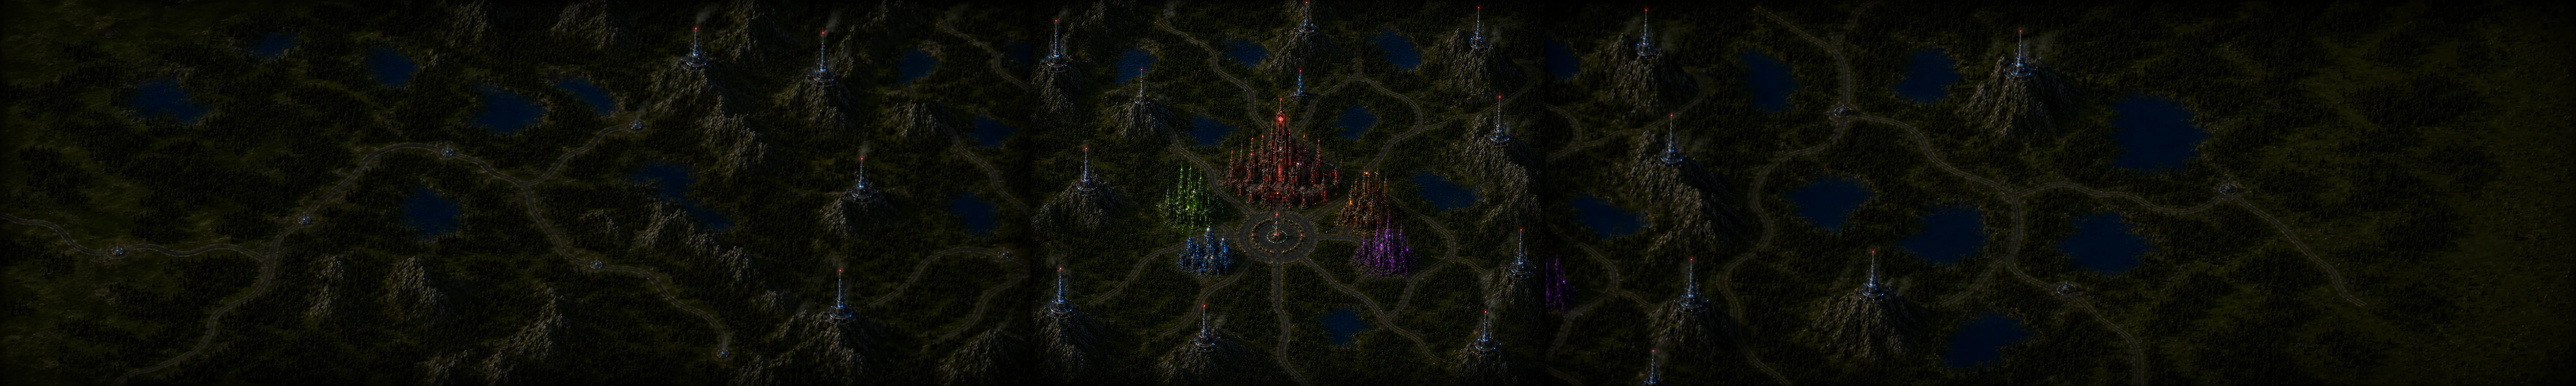
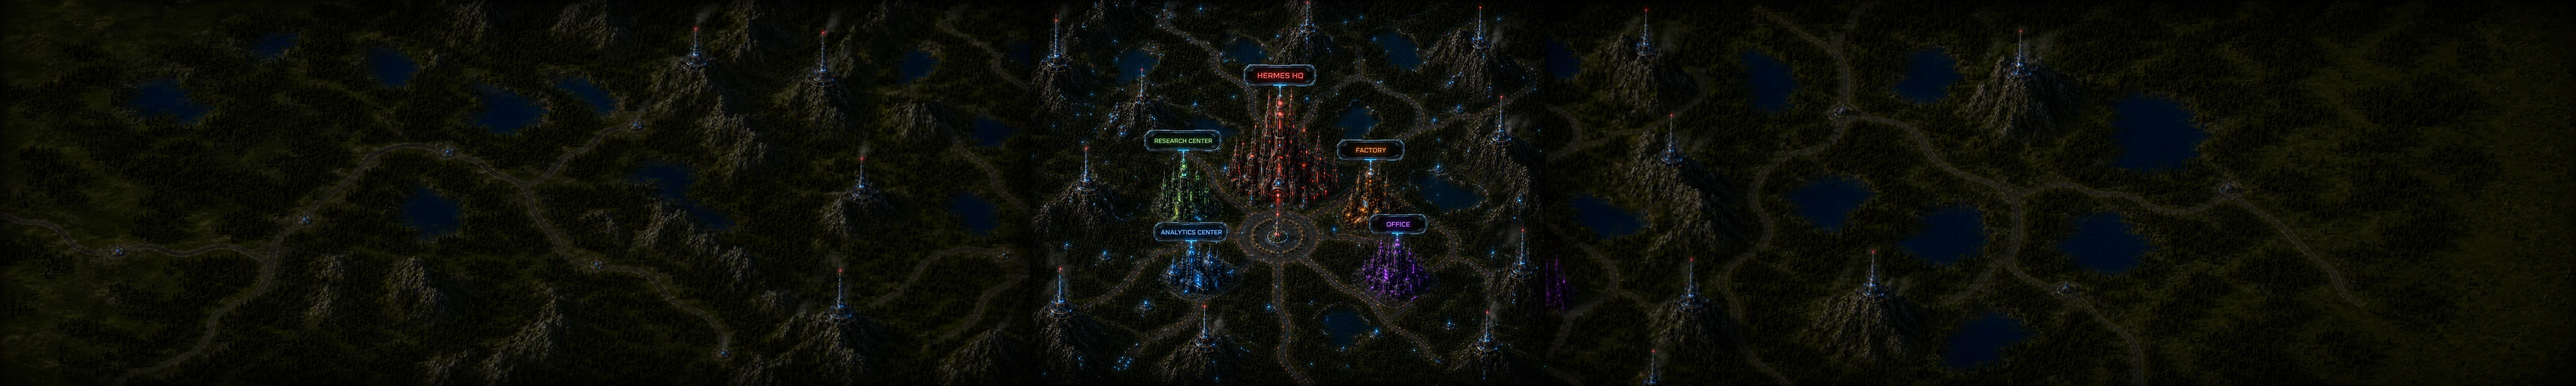
Byt till nya kartbilden med inbakade sci-fi-namnbubblor
- Mittsegmentet i panoraman utbytt mot anvandarens nya bild dar
  namnbubblorna ar inbakade i varje byggnads farg (HERMES HQ rod,
  RESEARCH CENTER gron, FACTORY orange, ANALYTICS CENTER bla,
  OFFICE lila) och hela staden/naturen ar i high-tech-stil
- Vildmarks-sidorna behallna ororda (ingen tom yta pa breda skarmar)
- Canvas-ritade HUD-etiketter avstangda (LABELS tom) - bubblorna
  finns nu i sjalva bilden
- Lampor omdetekterade (124 st) och 21 falska traffar pa bubblornas
  fargade text bortfiltrerade (etiketter ska inte gloda) -> 103 st

Claude-Session: https://claude.ai/code/session_015kz6un1MtHdJ6ZSN9t2GV3

Changed region(s): [[0.4058, 0.0, 0.5931, 0.9724], [0.4058, 0.1215, 0.437, 0.1519]]

diff --git a/js/lamps.js b/js/lamps.js
@@ -1,3 +1,4 @@
 // Positioner för befintliga lampor/facklor i kartan (autogenererat).
 // Format: [x, y, r, g, b] i bildkoordinater (panorama 7240x1086).
-window.LAMPS = [[3795,568,255,177,79],[3835,485,255,215,160],[3847,489,245,195,150],[3604,334,255,148,125],[3591,543,255,199,177],[3530,686,229,197,153],[3753,486,255,187,170],[3811,511,218,163,109],[3658,661,255,208,192],[3594,332,255,173,159],[3778,587,241,216,188],[3588,600,252,168,151],[3820,575,229,188,149],[3517,434,249,186,168],[3600,278,255,190,179],[3596,482,255,198,187],[3498,706,244,207,185],[3520,660,248,203,186],[3665,382,250,175,161],[2967,58,255,156,148],[3655,672,226,205,169],[3672,7,255,191,185],[3520,390,254,167,160],[3707,450,249,155,143],[3647,462,246,196,181],[3520,672,223,200,162],[3607,706,217,185,141],[4214,272,255,178,173],[3706,395,255,189,184],[3581,658,247,199,186],[3598,314,245,165,151],[3574,376,233,174,148],[3548,383,255,181,177],[3568,497,246,161,149],[3462,428,255,185,183],[4155,21,255,179,178],[3052,417,255,196,195],[4274,646,255,169,168],[3664,560,235,149,130],[3754,509,241,188,176],[3639,693,210,195,152],[3539,695,221,196,166],[3799,523,208,156,114]];
+// Bubblornas textzoner ar exkluderade (etiketter ska inte gloda).
+window.LAMPS = [[3870,593,254,196,102],[3829,589,255,190,105],[3851,509,255,207,123],[3789,603,255,209,131],[3892,545,255,209,154],[3851,533,237,180,108],[3815,531,255,218,166],[3817,511,243,200,142],[3658,649,255,226,181],[3815,620,244,187,133],[3799,572,239,178,123],[3842,626,239,193,138],[3840,594,226,164,98],[3839,612,247,215,174],[3602,289,255,154,125],[3591,547,255,196,168],[3540,627,245,217,179],[3711,447,255,186,159],[3592,560,255,131,104],[3531,687,248,212,179],[3594,462,254,149,123],[3602,319,255,155,132],[3658,673,247,209,178],[3573,706,249,224,196],[3625,950,249,212,184],[3628,279,255,198,177],[3672,426,255,202,181],[3517,438,255,185,164],[3550,529,249,219,192],[3560,704,244,222,190],[3522,661,253,211,189],[3150,819,249,224,198],[2967,57,255,181,162],[3597,347,255,182,163],[3567,398,244,151,121],[3842,515,228,176,130],[3591,536,255,168,149],[4080,734,248,216,190],[3596,337,255,179,161],[3702,497,255,205,187],[3467,505,249,173,149],[3726,537,255,186,168],[3306,583,222,219,168],[3782,587,225,171,123],[3707,673,251,214,192],[3597,360,255,185,168],[3559,618,236,217,181],[3593,287,255,150,134],[4183,306,245,220,194],[3528,356,255,207,191],[3629,701,238,216,183],[3664,366,255,197,182],[3594,472,255,205,191],[3798,552,244,220,196],[3560,352,254,199,186],[3628,397,253,153,139],[3662,527,255,163,151],[3850,571,233,200,166],[3588,641,240,219,192],[3566,274,255,207,196],[3894,520,216,167,117],[4180,878,255,203,192],[3596,400,245,155,135],[3052,417,255,200,190],[3587,659,255,206,196],[3550,700,235,210,180],[4220,272,255,207,198],[4160,21,255,205,197],[3494,404,255,201,193],[3471,433,255,194,186],[3590,600,255,195,187],[3661,661,246,194,177],[3674,6,255,203,197],[3618,438,246,175,160],[3600,443,252,151,142],[3664,465,255,144,138],[3633,543,242,156,137],[3651,686,226,207,172],[3609,707,226,195,160],[3624,620,228,205,174],[3541,695,221,191,153],[3851,498,217,178,137],[3653,639,226,190,158],[3522,672,224,197,163],[2979,756,255,195,192],[3386,861,255,174,171],[3580,434,241,205,190],[3384,888,235,202,181],[3605,920,236,212,192],[3635,334,244,198,187],[3689,509,243,156,144],[3632,533,244,210,199],[3577,550,243,179,167],[3512,477,238,188,173],[4279,646,246,185,178],[3709,419,243,174,165],[3573,616,215,198,161],[3657,426,241,183,173],[3629,269,243,198,191],[3551,544,238,165,153],[3693,555,222,129,101],[3798,617,212,175,137],[3501,707,225,192,167]];

diff --git a/js/main.js b/js/main.js
@@ -239,15 +239,10 @@ function drawSmoke() {
 }
 
 // ---- Sci-fi namnbubblor över byggnaderna ----
-// Positionerna (bildkoordinater i panoraman) är detekterade ur bilden:
-// x = byggnadens mitt, yTop = byggnadens högsta punkt.
-const LABELS = [
-  { name: 'HERMES HQ', x: 3596, yTop: 276 },
-  { name: 'RESEARCH CENTER', x: 3352, yTop: 471 },
-  { name: 'FACTORY', x: 3800, yTop: 420 },
-  { name: 'ANALYTICS CENTER', x: 3401, yTop: 672 },
-  { name: 'OFFICE', x: 3896, yTop: 615 },
-];
+// OBS: tom just nu — namnbubblorna är numera inbakade i själva kart-
+// bilden (i varje byggnads färg). Lägg till { name, x, yTop } här om
+// fler byggnader ska få HUD-etiketter i framtiden.
+const LABELS = [];
 
 function drawLabels() {
   const s = viewState.scale;
